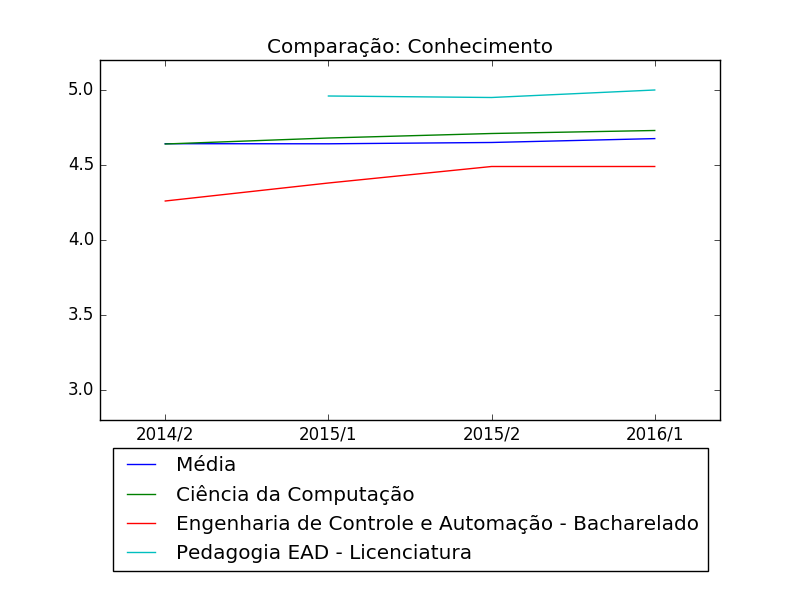
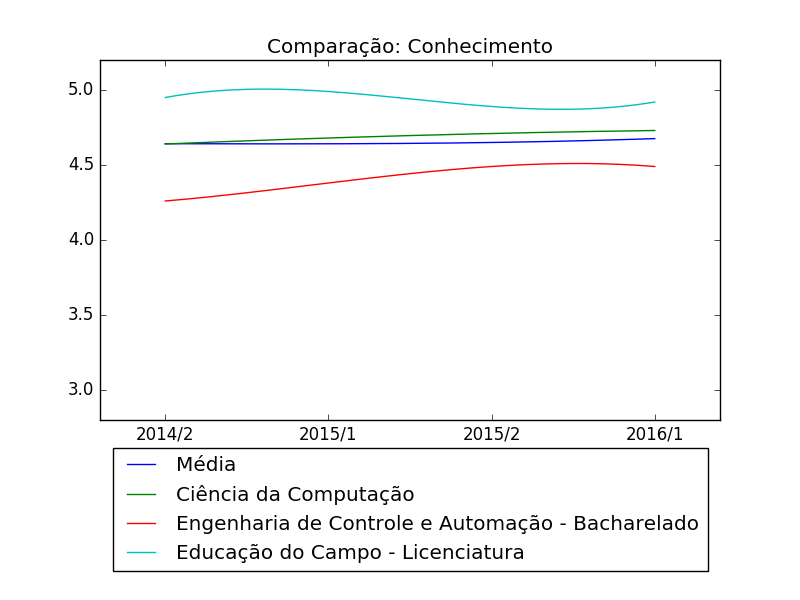
Should interpolate the data

diff --git a/main.py b/main.py
@@ -1,3 +1,5 @@
+import numpy
+import scipy.interpolate
 import statistics
 import re
 import time
@@ -243,11 +245,9 @@ if __name__ == '__main__':
         max_name = ''
         max_values = [0.0]
         for aggregate in aggregates.values():
-            if not aggregate.data[indicator]:
+            if not aggregate.data[indicator] or None in aggregate.data[indicator].values():
                 continue
-            values = [value for value in aggregate.data[indicator].values() if value is not None]
-            if not values:
-                continue
+            values = list(aggregate.data[indicator].values())
             if statistics.median(values) < statistics.median(min_values):
                 min_values = values
                 min_name = aggregate.name
@@ -261,13 +261,25 @@ if __name__ == '__main__':
             labels.append(period)
             average_values.append(average.data[indicator][period])
             computer_science_values.append(computer_science.data[indicator][period])
-        plt.plot(average_values, label='Média')
-        plt.plot(computer_science_values, label='Ciência da Computação')
+
+
+        def smooth_plot(xs, values, label):
+            points = 128
+            new_xs = numpy.linspace(xs[0], xs[-1], points)
+            # Could use some interpolation here, but there is no reason.
+            values_smooth = scipy.interpolate.spline(xs, values, new_xs)
+            if '(' in label:
+                label = label[:label.find('(')].strip()
+            plt.plot(new_xs, values_smooth, label=label)
+
+
         # Because minimum and maximum may have missing initial values, we have to supply X too.
         min_x = range(len(computer_science_values) - len(min_values), len(computer_science_values))
         max_x = range(len(computer_science_values) - len(max_values), len(computer_science_values))
-        plt.plot(min_x, min_values, label=min_name[:min_name.find('(')].strip())
-        plt.plot(max_x, max_values, label=max_name[:max_name.find('(')].strip())
+        smooth_plot(range(len(average_values)), average_values, label='Média')
+        smooth_plot(range(len(computer_science_values)), computer_science_values, label='Ciência da Computação')
+        smooth_plot(min_x, min_values, label=min_name)
+        smooth_plot(max_x, max_values, label=max_name)
         plt.xticks(range(len(labels)), labels)
         plot_path = configuration['reports_root']
         plot_filename = normalize_name(indicator) + '.png'

diff --git a/README.md b/README.md
@@ -1,7 +1,7 @@
 # UFRGS Evaluation Aggregator
 This project aims to aggregate all the scattered numbers the Federal University of Rio Grande do Sul provides about the student evaluation of their courses into human-friendly graphs.
 
-The following graphs contain the values for average, computer science and the best and worst course in the specific indicator.
+The following graphs contain the values for the average, computer science, the best, and the worst course for the specific indicator.
 
 ![](./reports/assiduidade-e-pontualidade.png)
 
